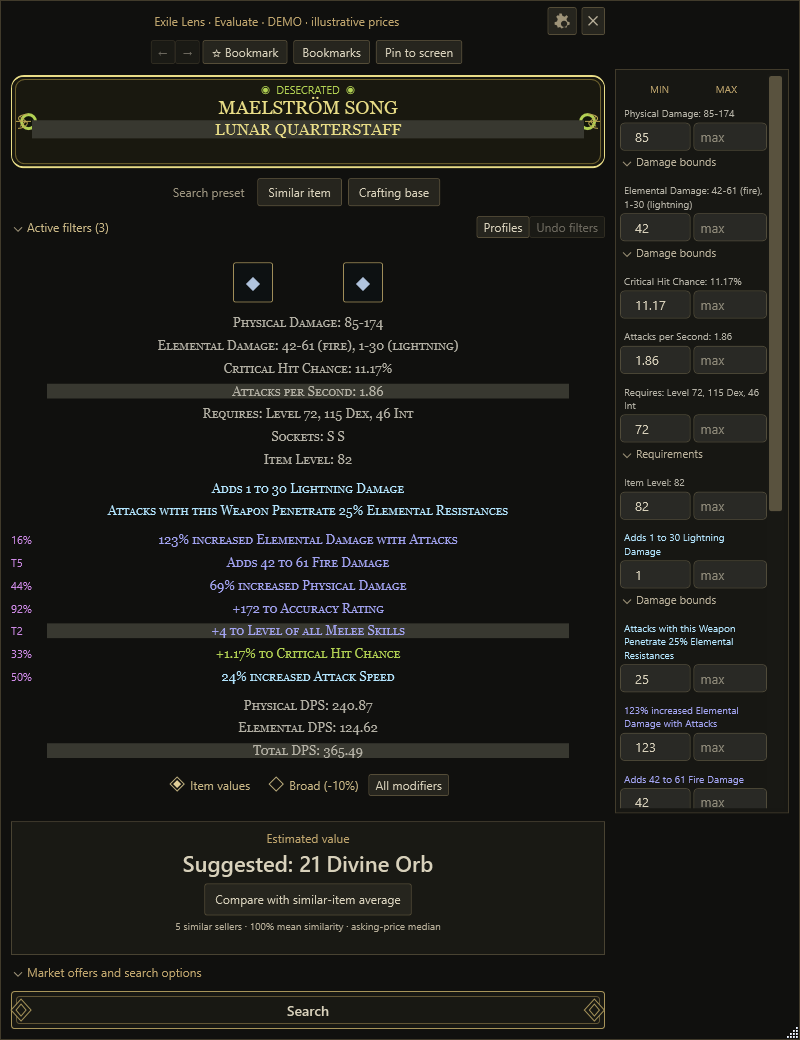
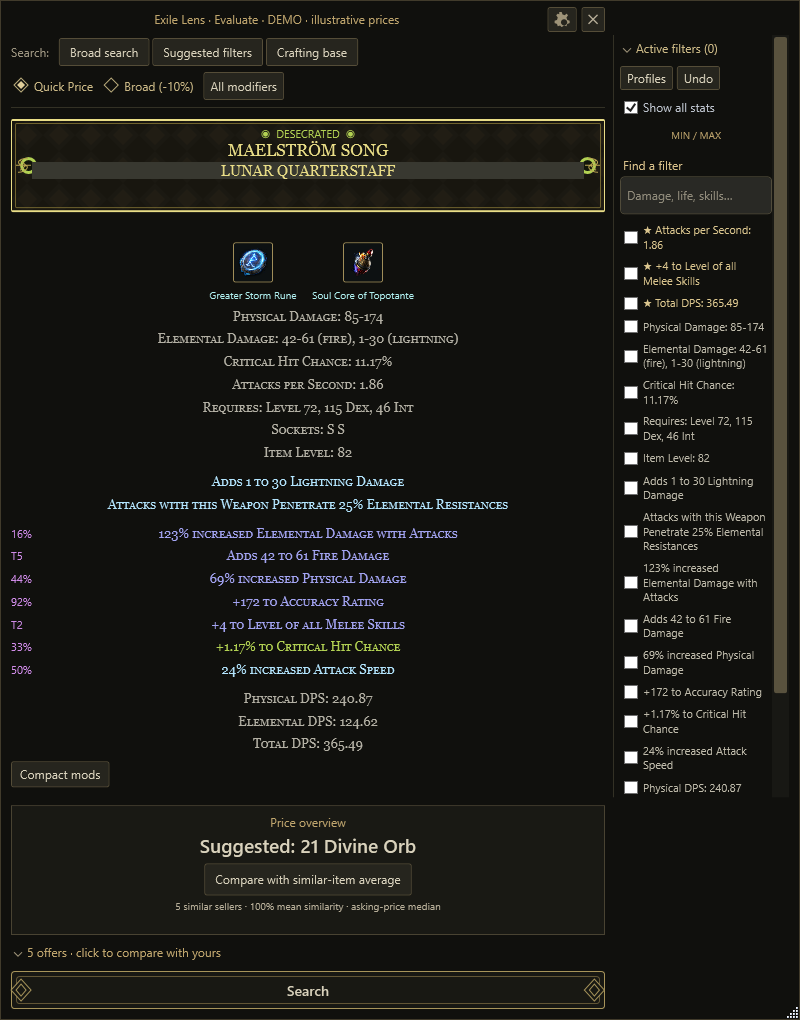
Add comparison overview and fix jewel, wand and granted skill handling

diff --git a/tests/ExileLens.Tests/Program.cs b/tests/ExileLens.Tests/Program.cs
@@ -394,6 +394,36 @@ Check(SimilarItems.Score(weightedRing,secondaryPeer)>=.8m,"Matching key ring sta
 var importantPeer=ItemParser.Parse(weightedRing.Details.Replace("+100 to maximum Life","+10 to maximum Life"))!;
 Check(SimilarItems.Score(weightedRing,importantPeer)<.8m,"A major loss of a key ring stat fails valuation threshold");
 Check(SimilarItems.Score(weightedRing,weightedRing with {BaseType="Iron Ring"})==0,"Non-weapon bases remain distinct");
+var overviewSame=ComparisonOverview.Create(skillDpsItem,skillDpsItem,"Physical attacks");
+Check(overviewSame.Verdict.StartsWith("Very similar"),"Overview identical weapon is similar");
+var overviewLoss=ComparisonOverview.Create(skillDpsItem,ItemParser.Parse(skillDpsItem.Details.Replace("+2 to Level","+1 to Level"))!,"Physical attacks");
+Check(overviewLoss.Losses.Length>0 && !overviewLoss.Verdict.StartsWith("Other item"),"Overview cannot call a skill-level loss an upgrade");
+Check(ComparisonOverview.Create(skillDpsItem,skillDpsItem with {Details=skillDpsItem.Details+"\nUnidentified"},"Physical attacks").Verdict.StartsWith("Insufficient"),"Overview never ranks hidden unidentified stats");
+Check(new OverviewStat("Critical Hit Chance",11.17m,13.53m,true).Difference=="+2.36 points","Crit change is percentage points");
+Check(new OverviewStat("Total DPS",100,150).Difference=="+50%","DPS comparison uses relative difference");
+var fixedRollItem=ItemParser.Parse("Item Class: Wands\nRarity: Unique\nAdonia's Ego\nSiphoning Wand\n--------\n+4(3) to Level of all Spell Skills\n-11(-10)% to all Elemental Resistances per Power Charge\n--------\nCorrupted")!;
+var fixedRollAnalysis=ItemAnalysis.From(fixedRollItem);
+Check(fixedRollAnalysis.Lines.Any(l=>l.Text=="+4 to Level of all Spell Skills" && l.Rolls!.Single().Value==4 && l.Rolls.Single().Minimum==3),"Modified fixed skill roll keeps actual value and reference metadata");
+Check(fixedRollAnalysis.Lines.Any(l=>l.Text=="-11% to all Elemental Resistances per Power Charge" && l.Rolls!.Single().Minimum==-10),"Negative fixed roll removes reference from filter text");
+Check(ComparableMarket.Signature(fixedRollAnalysis.Lines.First().Text)==ComparableMarket.Signature("+3 to Level of all Spell Skills"),"Fixed roll maps to ordinary trade stat signature");
+var radiusItem=ItemParser.Parse("Item Class: Jewels\nRarity: Rare\nKraken Spark\nTime-Lost Ruby\n--------\nUpgrades Radius to Medium — Unscalable Value\n15% increased Effect of Notable Passive Skills in Radius — Unscalable Value")!;
+var radiusLines=ItemAnalysis.From(radiusItem).Lines;
+Check(radiusLines[0].Text=="Upgrades Radius to Medium", "Radius presence filter removes unscalable annotation");
+var unscaledFilter=new EvaluationFilter(radiusLines[1]); unscaledFilter.Preset(true);
+Check(unscaledFilter.Minimum=="15" && !unscaledFilter.AllowsBroad,"Unscalable numeric roll stays exact in broad mode");
+using(var radiusCatalogue=JsonDocument.Parse("{\"result\":[{\"entries\":[{\"id\":\"explicit.radius\",\"text\":\"Upgrades Radius to Medium\"}]}]}"))
+{
+ var request=new ComparableRequest(radiusItem,"Demo","Auto",new[]{new PriceConstraint(radiusLines[0].Text,null,null,Kind:radiusLines[0].Kind)},false,false,null);
+ Check(LiveTradeClient.BuildQuery(request,radiusCatalogue.RootElement).Contains("explicit.radius"),"Radius modifier builds a presence-only trade query");
+ var doc=new ListingDocument("Demo","fixture",DateTimeOffset.UtcNow,new[]{new ImportedListing("radius","seller",new ListingPrice(1,"Divine Orb"),radiusItem.Details,DateTimeOffset.UtcNow,true,true)});
+ var market=ComparableMarket.Parse(JsonSerializer.Serialize(doc),DateTimeOffset.UtcNow);
+ Check(market.Search(request,DateTimeOffset.UtcNow).Rows.Count==1,"Presence-only modifier survives local listing filtering");
+}
+Check(SocketAugments.Match("Wands","+1 to Level of all Spell Skills")=="Hedgewitch Assandra's Rune of Wisdom","Positive clipboard sign resolves wand rune catalogue");
+Check(SocketAugments.Match("Wands","-1 to Level of all Spell Skills")==null,"Socket normalization preserves negative signs");
+var wandSocketItem=ItemParser.Parse("Item Class: Wands\nRarity: Unique\nAdonia's Ego\nSiphoning Wand\n--------\nSockets: S\n--------\n+1 to Level of all Spell Skills (rune)")!;
+var wandSocket=new SocketArtworkCatalog().Resolve(ItemSockets.From(wandSocketItem).Single());
+Check(wandSocket.Name=="Hedgewitch Assandra's Rune of Wisdom" && wandSocket.IconUrl!=null && wandSocket.Inferred,"Copied wand resolves rune identity and artwork while preserving inference label");
 var runeCatalog = new[] { new EconomyRow("Greater Iron Rune","","",5,"Exalted Orb",null,null),new EconomyRow("Perfect Iron Rune","","",50,"Exalted Orb",null,null),new EconomyRow("Iron Rune","","",1,"Exalted Orb",null,null), new EconomyRow("Countess Seske's Rune of Archery","","",80,"Exalted Orb",null,null) };
 Check(RuneNames.Match("GREATER IRON RUNE",90,runeCatalog)?.Row.Value == 5, "Rune OCR exact names preserve tier");
 Check(RuneNames.Match("2x Greater Iron Rune",90,runeCatalog)?.PriceLabel.Contains("10 Exalted") == true, "Rune choices include stack total");

diff --git a/src/ExileLens.Core/ComparisonOverview.cs b/src/ExileLens.Core/ComparisonOverview.cs
@@ -1,0 +1,51 @@
+using System.Globalization;
+using System.Text.RegularExpressions;
+
+namespace ExileLens.Core;
+
+public sealed record OverviewStat(string Name, decimal? Yours, decimal? Other, bool Points = false)
+{
+    public int Direction => Yours.HasValue && Other.HasValue ? Math.Sign(Other.Value-Yours.Value) : 0;
+    public string Difference => !Yours.HasValue || !Other.HasValue ? "Unavailable" : Direction==0 ? "Same" :
+        Points ? (Other!.Value-Yours!.Value).ToString("+0.##;-0.##",CultureInfo.InvariantCulture)+(Name.Contains("Level of",StringComparison.OrdinalIgnoreCase) ? " levels" : " points") :
+        Yours==0 ? (Other!.Value-Yours!.Value).ToString("+0.##;-0.##",CultureInfo.InvariantCulture) :
+        ((Other!.Value-Yours!.Value)/Math.Abs(Yours!.Value)*100).ToString("+0.#;-0.#",CultureInfo.InvariantCulture)+"%";
+}
+public sealed record ComparisonOverview(string Verdict, IReadOnlyList<OverviewStat> Stats, string Gains, string Losses)
+{
+    public static readonly string[] Priorities = { "Physical attacks", "Elemental attacks", "Spells", "Defences" };
+    public static ComparisonOverview Create(CopiedItem yours, CopiedItem other, string priority)
+    {
+        var a=ItemAnalysis.From(yours); var b=ItemAnalysis.From(other);
+        decimal? Property(ItemAnalysis item,string name)
+        {
+            var line=item.Lines.FirstOrDefault(l=>l.Kind=="Property" && l.Text.StartsWith(name+":",StringComparison.Ordinal));
+            if(line==null) return null;
+            var m=Regex.Match(line.Text[(name.Length+1)..],@"\d+(?:\.\d+)?");
+            return m.Success ? decimal.Parse(m.Value,CultureInfo.InvariantCulture) : null;
+        }
+        var stats=new List<OverviewStat>();
+        void Add(string name,bool points=false) { var x=Property(a,name); var y=Property(b,name); if(x.HasValue || y.HasValue) stats.Add(new(name,x,y,points)); }
+        if(priority is "Physical attacks" or "Elemental attacks")
+        {
+            Add(priority=="Physical attacks" ? "Physical DPS" : "Elemental DPS"); Add("Total DPS"); Add("Attacks per Second"); Add("Critical Hit Chance",true);
+        }
+        if(priority=="Defences") { Add("Armour"); Add("Evasion Rating"); Add("Energy Shield"); }
+        bool Relevant(ItemLine l) => l.Kind is "Explicit" or "Item text" or "Implicit" or "Rune" or "Enchant";
+        bool Wanted(string text) => text.Contains("to Level of",StringComparison.OrdinalIgnoreCase) ||
+            (priority=="Spells" && (text.Contains("increased Spell Damage",StringComparison.OrdinalIgnoreCase) || text.Contains("increased Cast Speed",StringComparison.OrdinalIgnoreCase))) ||
+            (priority=="Defences" && (text.Contains("to maximum Life",StringComparison.OrdinalIgnoreCase) || text.Contains("Resistance",StringComparison.OrdinalIgnoreCase)));
+        foreach(var line in a.Lines.Concat(b.Lines).Where(l=>Relevant(l)&&Wanted(l.Text)).DistinctBy(l=>ComparableMarket.Signature(l.Text)))
+        {
+            decimal? Value(ItemAnalysis item) { var match=item.Lines.FirstOrDefault(l=>Relevant(l)&&ComparableMarket.Signature(l.Text)==ComparableMarket.Signature(line.Text)); if(match==null) return null; var number=Regex.Match(match.Text,@"[+-]?\d+(?:\.\d+)?"); return number.Success ? decimal.Parse(number.Value,CultureInfo.InvariantCulture) : null; }
+            stats.Add(new(Regex.Replace(line.Text,@"[+-]?\d+(?:\.\d+)?%?\s*","",RegexOptions.None).Trim(),Value(a),Value(b),true));
+        }
+        string verdict;
+        if(a.Unidentified || b.Unidentified || yours.ItemClass!=other.ItemClass) verdict="Insufficient comparable information";
+        else if(stats.Count==0 || stats.Any(s=>!s.Yours.HasValue || !s.Other.HasValue)) verdict="Trade-off · some relevant stats are unavailable";
+        else if(stats.All(s=>s.Direction==0)) verdict="Very similar on the displayed stats";
+        else if(stats.Any(s=>s.Direction>0) && stats.Any(s=>s.Direction<0)) verdict="Trade-off · review the gains and losses";
+        else verdict=(stats.Any(s=>s.Direction>0) ? "Other item" : "Your item")+" is stronger on the displayed "+priority.ToLowerInvariant()+" stats";
+        return new(verdict,stats,string.Join(", ",stats.Where(s=>s.Direction>0).Select(s=>s.Name+" "+s.Difference)),string.Join(", ",stats.Where(s=>s.Direction<0).Select(s=>s.Name+" "+s.Difference)));
+    }
+}

diff --git a/src/ExileLens/ComparisonOverviewPanel.cs b/src/ExileLens/ComparisonOverviewPanel.cs
@@ -1,0 +1,46 @@
+using System;
+using System.Globalization;
+using System.Linq;
+using System.Windows;
+using System.Windows.Controls;
+using System.Windows.Media;
+using ExileLens.Core;
+
+namespace ExileLens;
+
+public sealed class ComparisonOverviewPanel : Border
+{
+    public ComparisonOverviewPanel(CopiedItem yours,CopiedItem other,string otherLabel)
+    {
+        Background=new SolidColorBrush(Color.FromRgb(24,24,19)); Padding=new Thickness(12); Margin=new Thickness(5,0,5,12);
+        var root=new StackPanel(); Child=root;
+        var priority=new ComboBox { ItemsSource=ComparisonOverview.Priorities, SelectedIndex=ItemAnalysis.From(yours).Lines.Any(l=>l.Text.StartsWith("Total DPS:")) ? 0 : yours.ItemClass is "Wands" or "Staves" or "Sceptres" ? 2 : 3, Width=180, HorizontalAlignment=HorizontalAlignment.Left, Margin=new Thickness(0,5,0,10) };
+        root.Children.Add(new TextBlock { Text="AT A GLANCE · comparison priority", Foreground=Brushes.Khaki }); root.Children.Add(priority);
+        var body=new StackPanel(); root.Children.Add(body);
+        void Render()
+        {
+            body.Children.Clear(); var result=ComparisonOverview.Create(yours,other,(string)priority.SelectedItem);
+            body.Children.Add(new TextBlock { Text=result.Verdict.Replace("Other item",otherLabel), FontSize=16, FontWeight=FontWeights.SemiBold, Foreground=Brushes.Wheat, TextWrapping=TextWrapping.Wrap, Margin=new Thickness(0,0,0,8) });
+            var table=new Grid(); table.ColumnDefinitions.Add(new ColumnDefinition { Width=new GridLength(2,GridUnitType.Star) });
+            for(int i=0;i<3;i++) table.ColumnDefinitions.Add(new ColumnDefinition());
+            void Cell(string text,int row,int column,Brush brush) { var label=new TextBlock { Text=text,Foreground=brush,TextWrapping=TextWrapping.Wrap,Margin=new Thickness(3,3,3,3) }; Grid.SetRow(label,row); Grid.SetColumn(label,column); table.Children.Add(label); }
+            table.RowDefinitions.Add(new RowDefinition()); Cell("Key stat",0,0,Brushes.Wheat); Cell("Your item",0,1,Brushes.Wheat); Cell(otherLabel,0,2,Brushes.Wheat); Cell("Difference",0,3,Brushes.Wheat);
+            int row=1;
+            foreach(var stat in result.Stats)
+            {
+                table.RowDefinitions.Add(new RowDefinition());
+                var yourColour=stat.Direction<0 ? Brushes.LightGreen : stat.Direction>0 ? Brushes.LightCoral : Brushes.LightGray;
+                var otherColour=stat.Direction>0 ? Brushes.LightGreen : stat.Direction<0 ? Brushes.LightCoral : Brushes.LightGray;
+                Cell(stat.Name,row,0,Brushes.LightGray);
+                Cell(stat.Yours?.ToString("0.##",CultureInfo.InvariantCulture)??"—",row,1,yourColour);
+                Cell(stat.Other?.ToString("0.##",CultureInfo.InvariantCulture)??"—",row,2,otherColour);
+                Cell(stat.Difference,row,3,otherColour);
+                row++;
+            }
+            body.Children.Add(table);
+            foreach(var text in new[]{"Gains: "+(result.Gains.Length>0 ? result.Gains : "No measured gains"),"Losses: "+(result.Losses.Length>0 ? result.Losses : "No measured losses"),"Differences are other minus yours. Missing stats are unknown. Actual build damage depends on your skills and scaling."})
+                body.Children.Add(new TextBlock { Text=text,Foreground=Brushes.DarkKhaki,TextWrapping=TextWrapping.Wrap,Margin=new Thickness(0,5,0,0),FontSize=11 });
+        }
+        priority.SelectionChanged+=(_,_)=>Render(); Render();
+    }
+}

diff --git a/src/ExileLens.Core/ItemAnalysis.cs b/src/ExileLens.Core/ItemAnalysis.cs
@@ -29,6 +29,7 @@ public sealed record ItemAnalysis(int? ItemLevel, int? Quality, bool Corrupted, 
     });
     private const string NumberPattern = @"[+-]?\d+(?:\.\d+)?";
     private static readonly Regex Range = new($@"(?<value>{NumberPattern})\((?<min>{NumberPattern})-(?<max>{NumberPattern})\)", RegexOptions.CultureInvariant);
+    private static readonly Regex FixedRoll = new($@"(?<value>{NumberPattern})\((?<reference>{NumberPattern})\)", RegexOptions.CultureInvariant);
     private static readonly Regex TierPattern = new(@"\(Tier:\s*(\d+)\)", RegexOptions.CultureInvariant);
     public static ItemAnalysis From(CopiedItem item)
     {
@@ -94,6 +95,11 @@ public sealed record ItemAnalysis(int? ItemLevel, int? Quality, bool Corrupted, 
             var unknownMarkers = Regex.Matches(raw, @"\(metadata:([^)]*)\)");
             var markers = Regex.Matches(raw, @"\((crafted|desecrated|fractured|mutated|vestigial|bonded|scourge|crucible|utility|cosmetic)\)", RegexOptions.IgnoreCase);
             string? lineMetadata = metadata?.Trim('{', ' ', '}');
+            if (Regex.IsMatch(raw, @"\s+[—–-]\s+Unscalable Value$", RegexOptions.IgnoreCase))
+            {
+                raw = Regex.Replace(raw, @"\s+[—–-]\s+Unscalable Value$", "", RegexOptions.IgnoreCase);
+                lineMetadata = (lineMetadata ?? "") + " · Unscalable Value";
+            }
             if (markers.Count > 0) lineMetadata = string.Join(" · ", new[] { lineMetadata }.Concat(markers.Select(m => m.Groups[1].Value + " Modifier")).Where(v => !string.IsNullOrWhiteSpace(v)));
             if (unknownMarkers.Count > 0) lineMetadata = (lineMetadata ?? "") + " · Unknown metadata: " + string.Join(", ",unknownMarkers.Select(m => m.Groups[1].Value));
             var rolls = new List<ItemRoll>();
@@ -102,6 +108,13 @@ public sealed record ItemAnalysis(int? ItemLevel, int? Quality, bool Corrupted, 
                 if (decimal.TryParse(match.Groups["value"].Value, NumberStyles.Number, CultureInfo.InvariantCulture, out decimal value) &&
                     decimal.TryParse(match.Groups["min"].Value, NumberStyles.Number, CultureInfo.InvariantCulture, out decimal min) &&
                     decimal.TryParse(match.Groups["max"].Value, NumberStyles.Number, CultureInfo.InvariantCulture, out decimal max)) rolls.Add(new(value, min, max));
+                return match.Groups["value"].Value;
+            });
+            display = FixedRoll.Replace(display, match =>
+            {
+                if (decimal.TryParse(match.Groups["value"].Value, NumberStyles.Number, CultureInfo.InvariantCulture, out var value) &&
+                    decimal.TryParse(match.Groups["reference"].Value, NumberStyles.Number, CultureInfo.InvariantCulture, out var reference))
+                    rolls.Add(new(value,reference,reference));
                 return match.Groups["value"].Value;
             });
             display = Regex.Replace(display, @"\s*\((augmented|implicit|enchant|rune|crafted|desecrated|fractured|mutated|vestigial|bonded|scourge|crucible|utility|cosmetic)\)", "");

diff --git a/src/ExileLens/EvaluationWindow.xaml.cs b/src/ExileLens/EvaluationWindow.xaml.cs
@@ -144,17 +144,19 @@ public partial class EvaluationWindow : Window
             if (gem && line.Kind is "Flavour" or "Gem description" or "Instructions") { Grid.SetColumnSpan(label, 1); label.FontSize = 15; }
             Grid.SetColumn(label, 1); row.Children.Add(label);
             int numberCount = System.Text.RegularExpressions.Regex.Matches(line.Text, @"(?<![\d.])[+-]?\d+(?:\.\d+)?").Count;
-            if (equipment && numberCount > 0 && line.Kind is not ("Flavour" or "Gem description" or "Instructions" or "Description" or "Gem tags"))
+            bool presence = numberCount == 0 && line.Kind is "Item text" or "Explicit" or "Implicit" or "Rune" or "Enchant";
+            if (equipment && (numberCount > 0 || presence) && !line.Text.StartsWith("Note:",StringComparison.OrdinalIgnoreCase) && line.Kind is not ("Flavour" or "Gem description" or "Instructions" or "Description" or "Gem tags" or "Class"))
             {
                 var group = new List<(EvaluationFilter Filter, TextBox Min, TextBox Max)>();
                 var fieldStack = new StackPanel { Margin = new Thickness(0), VerticalAlignment = VerticalAlignment.Center };
                 var extraFields = new StackPanel();
-                for (int index = 0; index < numberCount; index++)
+                for (int index = 0; index < Math.Max(1,numberCount); index++)
                 {
                     var filter = new EvaluationFilter(line, index, currentGroup); filter.Preset(BroadPreset.IsChecked == true);
                     TextBox minimum = new() { Text = filter.Minimum }, maximum = new();
                     var fields = RangeFields(minimum, maximum); fields.Margin = new Thickness(0, index > 0 ? 2 : 0, 0, 0);
-                    string valueName = ValueName(line.Text, index, numberCount);
+                    if (presence) { fields.Visibility=Visibility.Collapsed; fieldStack.Children.Add(new TextBlock { Text="Match this modifier · no numeric bounds", Foreground=Foreground, FontSize=11, TextWrapping=TextWrapping.Wrap }); }
+                    string valueName = presence ? "modifier presence" : ValueName(line.Text, index, numberCount);
                     minimum.ToolTip = $"Minimum {valueName}" + (filter.AllowsBroad ? "" : "\nKept exact in Broad mode; edit manually to change."); maximum.ToolTip = $"Maximum {valueName}";
                     if (index == 0) fieldStack.Children.Add(fields);
                     else

diff --git a/tests/ExileLens.Tests/LiveTradeChecks.cs b/tests/ExileLens.Tests/LiveTradeChecks.cs
@@ -61,6 +61,17 @@ static class LiveTradeChecks
         string fetched = "{\"result\":[" + string.Join(",", new[] { Fixture("a", "A", 100, 10), Fixture("b", "B", 110, 20), Fixture("c", "C", 120, 30), Fixture("d", "D", 150, 2), Fixture("e", "E", 100, 1, "exalted") }) + "]}";
         var result = LiveTradeClient.ParseListings(JsonDocument.Parse(fetched).RootElement, request, DateTimeOffset.UtcNow);
         check(result.Rows.Count == 3 && result.Median == 20, "Live response excludes wrong bounds and currency before estimating");
+        var skillResponse=System.Text.Json.Nodes.JsonNode.Parse(fetched)!;
+        foreach(var row in skillResponse["result"]!.AsArray())
+        {
+            row!["item"]!["grantedSkills"]=System.Text.Json.Nodes.JsonNode.Parse("""[{"name":"Grants Skill","values":[["Level 18 Power Siphon",25]],"displayMode":0},{"name":"Grants Skill","values":[["[PinnacleOfPower|Pinnacle of Power]",25]],"displayMode":0}]""");
+            row["item"]!["properties"]=System.Text.Json.Nodes.JsonNode.Parse("""[{"name":"Grants Skill","values":[["Level 18 Power Siphon",25]],"displayMode":0}]""");
+        }
+        using(var skillJson=JsonDocument.Parse(skillResponse.ToJsonString()))
+        {
+            var skills=ItemAnalysis.From(LiveTradeClient.ParseListings(skillJson.RootElement,request,DateTimeOffset.UtcNow).Rows.First().Item).Lines;
+            check(skills.Count(l=>l.Text=="Grants Skill: Level 18 Power Siphon")==1 && skills.Any(l=>l.Text=="Grants Skill: Pinnacle of Power" && l.Kind=="Property"),"Trade granted skills preserve all names, clean links and avoid property duplicates");
+        }
         var broadRequest = request with { ExactBase=false, Item=request.Item with { ItemClass="Rings" } };
         var broadResult = LiveTradeClient.ParseListings(JsonDocument.Parse(fetched).RootElement,broadRequest,DateTimeOffset.UtcNow);
         check(broadResult.Rows.Count==3 && broadResult.Rows.All(r=>r.Item.ItemClass=="Rings"), "Broad-category listings preserve class instead of all being discarded");

diff --git a/src/ExileLens/ListingComparisonWindow.cs b/src/ExileLens/ListingComparisonWindow.cs
@@ -42,15 +42,7 @@ public sealed class ListingComparisonWindow : Window
         var close = new Button { Content = "Close", Padding = new Thickness(10,4,10,4) }; close.Click += (_, _) => Close();
         Grid.SetColumn(close, 1); title.Children.Add(close); grid.Children.Add(title);
         var content = new StackPanel { Margin = new Thickness(0,0,10,0) };
-        var keyStats = DefaultItemFilters.Suggested(yours);
-        var keyChanges = ItemComparison.Rows(yours,listing.Item).Where(r=>keyStats.Contains(r.Yours)).ToArray();
-        if(keyChanges.Length>0)
-        {
-            var summary = new StackPanel { Margin=new Thickness(8,4,8,12) };
-            summary.Children.Add(new TextBlock { Text="Key comparison · yours → seller", FontWeight=FontWeights.SemiBold, Foreground=Foreground });
-            foreach(var stat in keyChanges) summary.Children.Add(new TextBlock { Text=stat.Yours+"  →  "+stat.Seller, TextWrapping=TextWrapping.Wrap, Margin=new Thickness(0,4,0,0), Foreground=Foreground });
-            content.Children.Add(summary);
-        }
+        content.Children.Add(new ComparisonOverviewPanel(yours, listing.Item, listing.Listing.Id=="average" ? "Similar-item average" : listing.Listing.Id=="pinned" ? "Comparison item" : "Seller item"));
         content.Children.Add(new TextBlock { Text=SimilarItems.Explain(yours,listing.Item), TextWrapping=TextWrapping.Wrap, Foreground=Foreground, Margin=new Thickness(8,4,8,8) });
         var cards = new Grid(); cards.ColumnDefinitions.Add(new ColumnDefinition()); cards.ColumnDefinitions.Add(new ColumnDefinition());
         cards.RowDefinitions.Add(new RowDefinition { Height=GridLength.Auto });

diff --git a/src/ExileLens.Core/EvaluationFilter.cs b/src/ExileLens.Core/EvaluationFilter.cs
@@ -10,15 +10,17 @@ public sealed class EvaluationFilter
     public string Kind { get; }
     public decimal? CopiedValue { get; }
     public bool Enabled { get; set; }
+    public bool Unscalable { get; }
     public bool WholeNumber => Regex.IsMatch(Text, @"(?i)to level of .*skills|^(?:Item Level|Rune Sockets|Sockets):|^Requires:|to (?:Strength|Dexterity|Intelligence|all Attributes|Accuracy Rating)|to maximum (?:Life|Mana)$");
     public string Minimum { get; set; } = "";
     public string Maximum { get; set; } = "";
     // Broad matching is for variable performance rolls, not eligibility or discrete mechanics.
-    public bool AllowsBroad => CopiedValue > 0 && !Regex.IsMatch(Text,
+    public bool AllowsBroad => !Unscalable && CopiedValue > 0 && !Regex.IsMatch(Text,
         @"(?i)^(?:Requires:|Item Level:|Level:|Quality:|Sockets:|Rune Sockets:|Stack Size:)|to level of .*skills|(?:additional|maximum) (?:arrows?|projectiles?|charges?|sockets?)|(?:arrows?|projectiles?) (?:additional|fired)|uses remaining");
     public EvaluationFilter(ItemLine line, int valueIndex = 0, int groupId = 0)
     {
         Text = line.Text; Kind = line.Kind; ValueIndex = valueIndex; GroupId = groupId;
+        Unscalable = line.Metadata?.Contains("Unscalable Value", StringComparison.OrdinalIgnoreCase) == true;
         var matches = Regex.Matches(line.Text, @"(?<![\d.])[+-]?\d+(?:\.\d+)?");
         var match = valueIndex >= 0 && valueIndex < matches.Count ? matches[valueIndex] : Match.Empty;
         CopiedValue = match.Success && decimal.TryParse(match.Value, NumberStyles.Number, CultureInfo.InvariantCulture, out decimal n) ? n : null;

diff --git a/src/ExileLens.Core/SocketAugments.cs b/src/ExileLens.Core/SocketAugments.cs
@@ -1,4 +1,5 @@
 using System.Text.Json;
+using System.Text.RegularExpressions;
 namespace ExileLens.Core;
 public static class SocketAugments
 {
@@ -13,12 +14,15 @@ public static class SocketAugments
     public static string? Icon(string name)=>ItemArtwork.SafeUrl(catalog.FirstOrDefault(a=>a.Name.Equals(name.Trim(),StringComparison.OrdinalIgnoreCase))?.Icon);
     public static string? Match(string itemClass,string effect)
     {
+        // Clipboard text includes a leading '+' for additive values; catalogue
+        // effects omit it. Keep actual values and negative signs significant.
+        static string Normalize(string text) => Regex.Replace(ItemAnalysis.CleanTradeText(text), @"\+(?=\d)", "").Trim();
         string category=itemClass switch {
             "Quarterstaves"=>"Warstaff", "Body Armours"=>"Body Armour", "Helmets"=>"Helmet", "Bows"=>"Bow",
             "Crossbows"=>"Crossbow", "Wands"=>"Wand", "Staves"=>"Staff", "Sceptres"=>"Sceptre", "Shields"=>"Shield",
             "Foci"=>"Focus", "Bucklers"=>"Buckler", "Spears"=>"Spear", "Daggers"=>"Dagger", "Claws"=>"Claw",
             "One Hand Maces"=>"One Hand Mace", "Two Hand Maces"=>"Two Hand Mace", _=>itemClass };
-        var matches=catalog.Where(a=>a.Effects.Any(e=>e.Categories.Contains(category) && e.Text.Equals(effect,StringComparison.OrdinalIgnoreCase))).ToArray();
+        var matches=catalog.Where(a=>a.Effects.Any(e=>e.Categories.Contains(category) && Normalize(e.Text).Equals(Normalize(effect),StringComparison.OrdinalIgnoreCase))).ToArray();
         return matches.Length==1 ? matches[0].Name : null;
     }
 }

diff --git a/src/ExileLens.Core/LiveTradeClient.cs b/src/ExileLens.Core/LiveTradeClient.cs
@@ -255,12 +255,15 @@ public sealed class LiveTradeClient(HttpClient http)
             if (name.Length > 0) text.AppendLine(name);
             text.AppendLine(baseType).AppendLine("--------");
             if (item.TryGetProperty("ilvl", out var ilvl)) text.AppendLine("Item Level: " + ilvl.GetInt32());
-            if (item.TryGetProperty("properties", out var properties))
+            var propertyLines = new HashSet<string>(StringComparer.Ordinal);
+            foreach (string propertyField in new[] { "properties", "grantedSkills" })
+            if (item.TryGetProperty(propertyField, out var properties) && properties.ValueKind == JsonValueKind.Array)
                 foreach (var property in properties.EnumerateArray())
                 {
                     string label = ReadText(property.GetProperty("name"), "item.properties.name");
                     string values = string.Join(", ", property.GetProperty("values").EnumerateArray().Select(x => ReadText(x[0], $"item.properties[{label}].values")));
-                    text.AppendLine(label + (values.Length > 0 ? ": " + values : ""));
+                    string propertyText = ItemAnalysis.CleanTradeText(label + (values.Length > 0 ? ": " + values : ""));
+                    if (propertyLines.Add(propertyText)) text.AppendLine(propertyText);
                 }
             if (item.TryGetProperty("requirements", out var requirements) && requirements.ValueKind == JsonValueKind.Array)
             {

diff --git a/src/ExileLens/MainWindow.xaml.cs b/src/ExileLens/MainWindow.xaml.cs
@@ -632,6 +632,24 @@ public partial class MainWindow : Window
     {
         var window = target ?? this;
         window.UpdateLayout();
+        // Remote artwork is asynchronous. Let WPF complete image downloads before
+        // rendering a showcase rather than capturing the first placeholder frame.
+        var deadline = DateTime.UtcNow.AddSeconds(10);
+        bool Pending(DependencyObject node)
+        {
+            if (node is System.Windows.Controls.Image { Source: BitmapImage { IsDownloading: true } }) return true;
+            for (int i=0;i<VisualTreeHelper.GetChildrenCount(node);i++)
+                if(Pending(VisualTreeHelper.GetChild(node,i))) return true;
+            return false;
+        }
+        while(Pending(window) && DateTime.UtcNow<deadline)
+        {
+            var frame=new System.Windows.Threading.DispatcherFrame();
+            var timer=new System.Windows.Threading.DispatcherTimer { Interval=TimeSpan.FromMilliseconds(50) };
+            timer.Tick+=(_,_)=> { timer.Stop(); frame.Continue=false; };
+            timer.Start(); System.Windows.Threading.Dispatcher.PushFrame(frame);
+        }
+        window.UpdateLayout();
         var bitmap = new RenderTargetBitmap((int)window.ActualWidth, (int)window.ActualHeight, 96, 96, PixelFormats.Pbgra32);
         bitmap.Render(window);
         var encoder = new PngBitmapEncoder(); encoder.Frames.Add(BitmapFrame.Create(bitmap));

diff --git a/src/ExileLens/Showcase.cs b/src/ExileLens/Showcase.cs
@@ -59,7 +59,8 @@ public partial class MainWindow
                 new ListingPrice(18+i, "Divine Orb"), item.Details.Replace("Maelström Song", "Demonstration Staff").Replace("123(120-139)%", "125(120-139)%"), time, true, true)).ToArray());
         var market = ComparableMarket.Parse(JsonSerializer.Serialize(data), time);
         view.SetComparableResult(market.Search(new ComparableRequest(item,"Demo","Divine Orb",Array.Empty<PriceConstraint>(),true,true,null),time));
-        view.VerifyListingComparison(window => Capture("artifacts/showcase/comparison.png",window));
+        view.VerifyListingComparison(window => { window.Height=System.Math.Min(1040,System.Windows.SystemParameters.WorkArea.Height-24); window.UpdateLayout(); Capture("artifacts/showcase/comparison.png",window); });
+        view.ShowAllBounds.IsChecked=true;
         view.ResizeToItemContent(); view.UpdateLayout();
         Capture("artifacts/showcase/price-check.png",view);
         view.SetItem(ItemParser.Parse("Item Class: Quest Items\nRarity: Quest\nOrigin Spark\n--------\nA burgeoning emergent\nflare of empowered life\n--------\nCan be combined with the Origin Cradle within the Tower of Origins"),"Demo");
